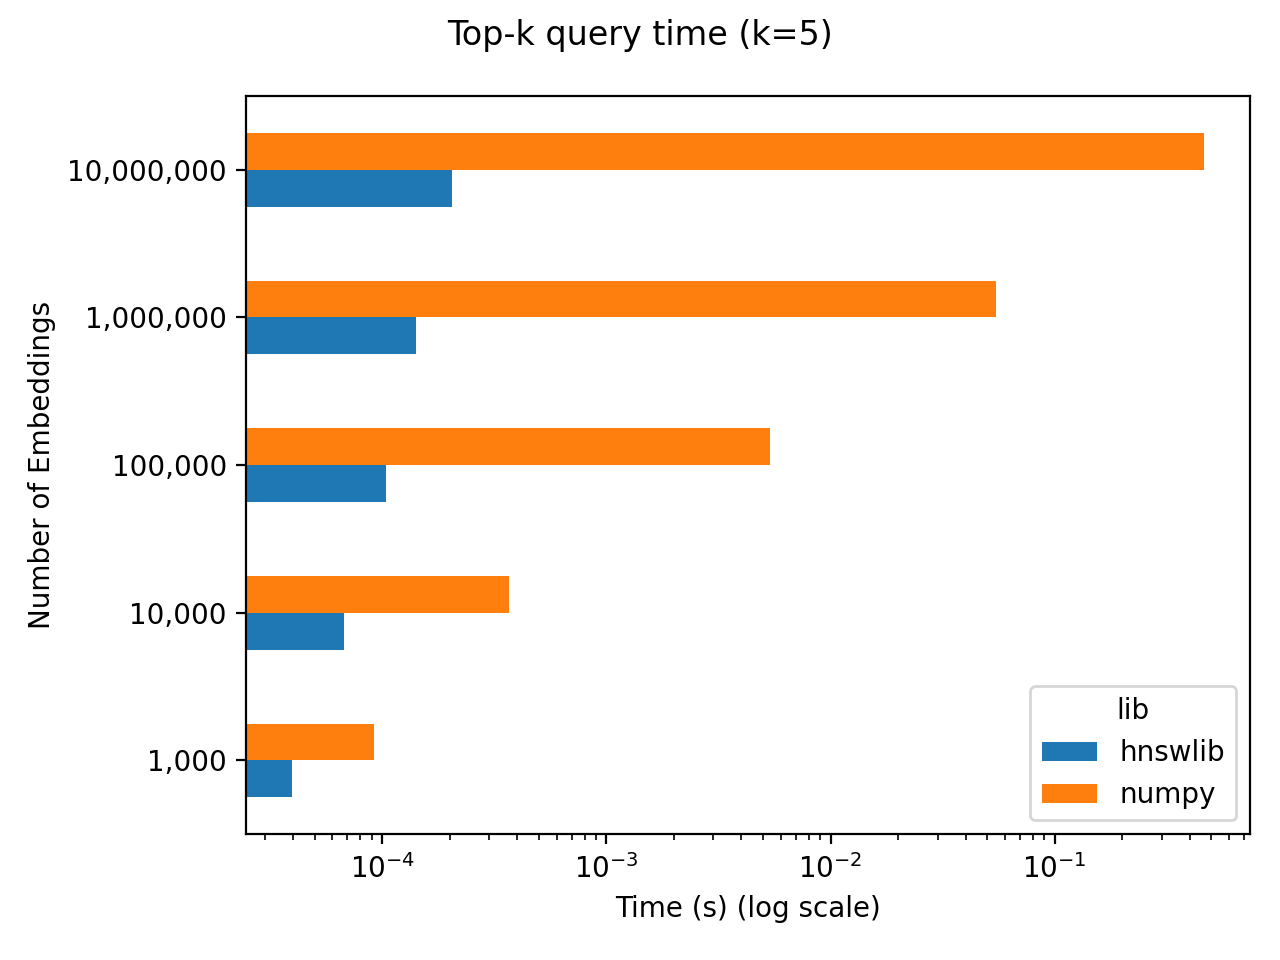
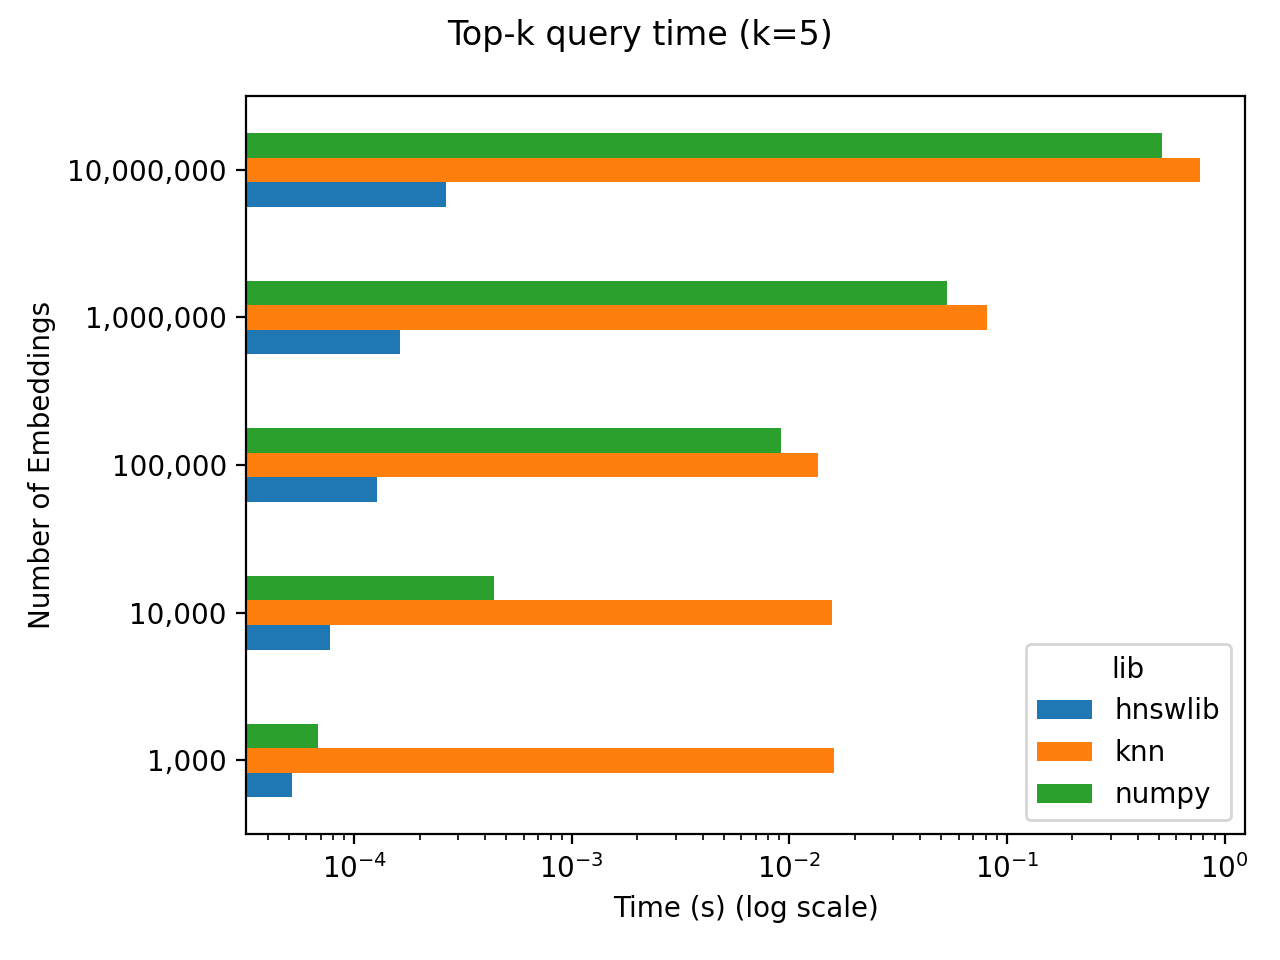
Add KNN

diff --git a/src/nn_vs_ann/benchmark.py b/src/nn_vs_ann/benchmark.py
@@ -6,6 +6,7 @@ import numba
 import numpy as np
 import numpy.typing as npt
 import pandas as pd
+from sklearn.neighbors import KNeighborsClassifier
 
 from nn_vs_ann import ROOT
 
@@ -76,6 +77,13 @@ def topk(
     indices = np.argpartition(-sim, kth=k)[:k]
     top_indices = np.argsort(-sim[indices])
     return indices[top_indices], sim[top_indices]
+
+
+def knn(
+    vec: npt.NDArray[np.float32], clf
+) -> tuple[npt.NDArray[np.int32], npt.NDArray[np.float32]]:
+    sims, indices = clf.kneighbors(vec.reshape(1, -1))
+    return indices, sims
 
 
 @numba.njit("float32[:,:](int_, int_)", parallel=True)
@@ -210,6 +218,38 @@ def main(
         print(json.dumps(results[-1], indent=2))
 
         print("Done numpy.")
+
+        #################################################
+        #                 KNN                           #
+        #################################################
+
+        print("Starting KNN trials...")
+
+        t0 = time.time()
+        clf = KNeighborsClassifier(n_neighbors=k, n_jobs=-1)
+        clf.fit(data, np.arange(len(data)))
+        t1 = time.time()
+        print(f"Took {t1 - t0:.3f}s to build KNN.")
+        times = []
+        for i in range(num_trials):
+            t0 = time.time()
+            knn(data[i], clf)
+            t1 = time.time()
+            times.append(t1 - t0)
+
+        results.append(
+            {
+                "num_embeddings": num_embeddings,
+                "num_dims": num_dims,
+                "lib": "knn",
+                "k": k,
+                "avg_time": np.mean(times),
+                "stddev_time": np.std(times),
+            }
+        )
+        print(json.dumps(results[-1], indent=2))
+
+        print("Done KNN.")
 
     results = pd.DataFrame(results)
     return results

diff --git a/README.md b/README.md
@@ -8,13 +8,13 @@ This repo runs a quick benchmark for calculating nearest neighbors for embedding
 
 Time in seconds.
 
-| num_embeddings   |     hnswlib |       numpy |
-|:-----------------|------------:|------------:|
-| 1,000            | 3.95775e-05 | 9.23061e-05 |
-| 10,000           | 6.76441e-05 | 0.000368452 |
-| 100,000          | 0.000103912 | 0.00536784  |
-| 1,000,000        | 0.000141306 | 0.0546181   |
-| 10,000,000       | 0.000205708 | 0.465007    |
+| num_embeddings   |     hnswlib |       knn |       numpy |
+|:-----------------|------------:|----------:|------------:|
+| 1,000            | 5.16033e-05 | 0.0160115 | 6.79398e-05 |
+| 10,000           | 7.74956e-05 | 0.0156339 | 0.000436649 |
+| 100,000          | 0.000126944 | 0.0135723 | 0.00918114  |
+| 1,000,000        | 0.000162601 | 0.081327  | 0.0532641   |
+| 10,000,000       | 0.00026412  | 0.76874   | 0.517204    |
 
 ![assets/results.png](assets/results.png)
 
